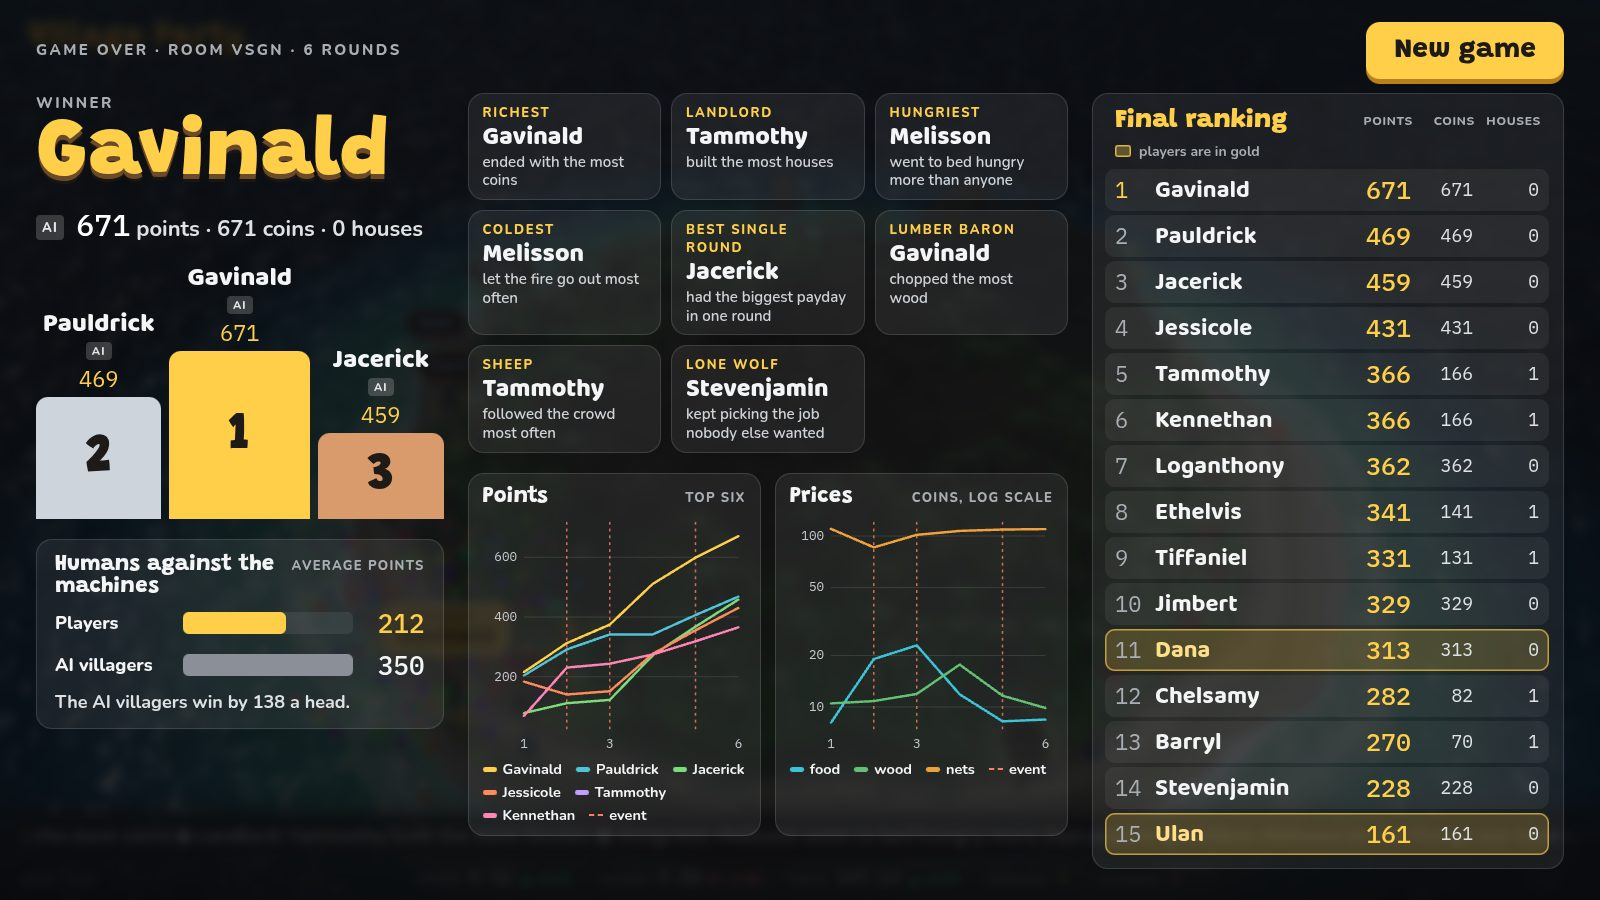
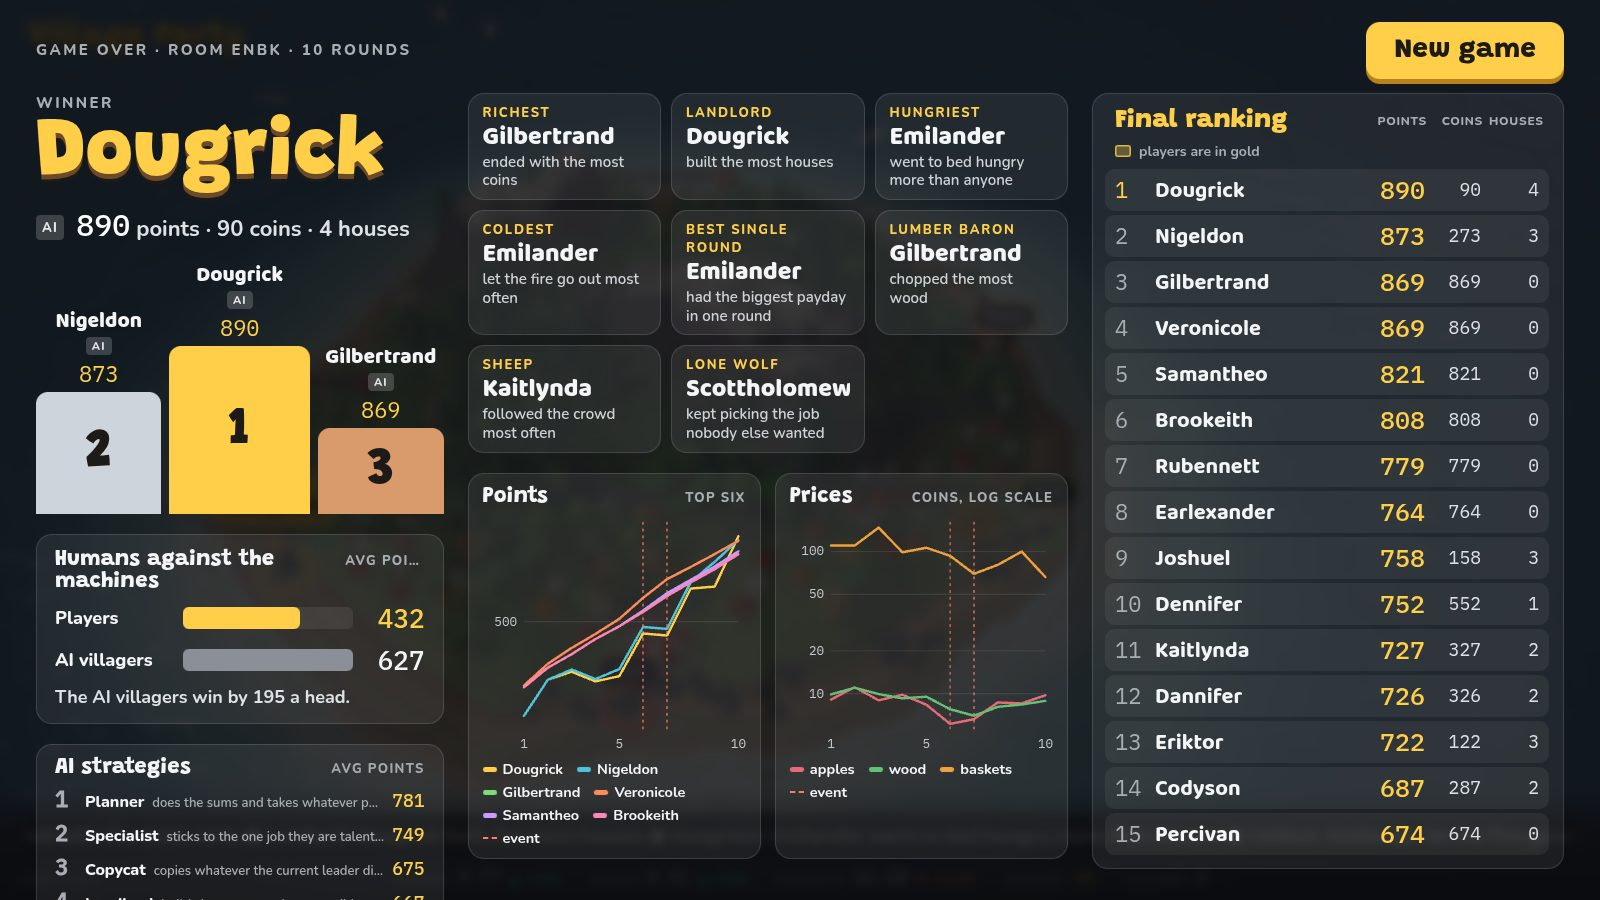
README + screenshots: orchard village (apples, baskets, crows), OpenAI brain toggle, economy lab, refreshed balance table

diff --git a/README.md b/README.md
@@ -18,16 +18,16 @@ villagers who all have their own strategies, personalities and opinions about yo
 ## Why it's fun
 
 Most "economy" games have fixed prices. In Village Party, **the price of everything is set by what
-everyone else just did.** If the whole room goes fishing, fish is worth nothing. If nobody chops
+everyone else just did.** If the whole room picks apples, apples are worth nothing. If nobody chops
 wood, the one person who did gets rich. Every round is a quick guess about what the other 20+
-people in the room (and the AI villagers) are about to do. Then a seagull heist wipes out your
-food anyway.
+people in the room (and the AI villagers) are about to do. Then a crow heist wipes out your
+apples anyway.
 
 - **No app to install.** Phones join by QR code or a 4-letter room code in the browser.
 - **Easy to learn, hard to play well.** Four buttons, a 12-second timer, and an estimate of what each job pays.
 - **The village is never empty.** AI villagers fill it up to 60, so you can play with 2 people or 40.
-- **Chaos on demand.** Storms, forest fires, cold snaps, a surprise wealth tax. The host can set one off whenever they like.
-- **A proper ending.** Podium, awards ("Sheep", "Lone wolf", "Hungriest"), price charts, and the big question: *did the humans beat the machines?*
+- **Chaos on demand.** Hailstorms, forest fires, cold snaps, a surprise wealth tax. The host can set one off whenever they like.
+- **A proper ending.** Podium, awards ("Sheep", "Lone wolf", "Hungriest"), price charts, which AI strategy did best, and the big question: *did the humans beat the machines?*
 
 <table>
 <tr>
@@ -39,7 +39,7 @@ food anyway.
 
 1. Scan the QR on the big screen
 2. Type your name and you're on the island
-3. Each round, pick **Fish**, **Chop wood**, **Craft a net** or **Build a house**
+3. Each round, pick **Pick apples**, **Chop wood**, **Weave a basket** or **Build a house**
 4. Each job shows its estimated pay at last round's prices
 5. Add a one-liner for your speech bubble on the big screen (optional)
 
@@ -53,10 +53,11 @@ food anyway.
 
 ```
 PICK    →  every villager (human or AI) picks one job before the clock runs out
-WORK    →  catch fish, chop wood, craft a net (+60% catch for 4 shifts) or put a shift into a house
+WORK    →  pick apples in the orchard, chop wood in the forest, weave a basket
+           (+60% apple harvest for 4 shifts) or put a shift into a house
 SELL    →  everything beyond what you keep goes to the mainland trader:
            the more of a good the village offers, the lower its price this round
-LIVE    →  everyone eats 2 food and burns 1 wood, buying what's short;
+LIVE    →  everyone eats 2 apples and burns 1 wood, buying what's short;
            go hungry or cold and you work at 60% strength next round
 EARN    →  a finished house is worth 200 points and pays 25 rent every round after
 SCORE   →  points = coins + houses. Richest villager at the end wins.
@@ -64,8 +65,8 @@ SCORE   →  points = coins + houses. Richest villager at the end wins.
 
 The round ends early once everyone has picked, so a room that decides quickly plays quickly.
 
-**Events** (chaos level from *Calm* to *Mayhem*): 🌊 Storm · 🐟 Fish frenzy · 🔥 Forest fire · ❄ Cold
-snap · 🦠 Blight · 🐦 Seagull heist · 💸 Surprise tax · 🌾 Golden season.
+**Events** (chaos level from *Calm* to *Mayhem*): 🌨 Hailstorm · 🍎 Bumper crop · 🔥 Forest fire · ❄ Cold
+snap · 🦠 Blight · 🐦⬛ Crow heist · 💸 Surprise tax · 🌾 Golden season.
 
 <img src="docs/screenshots/host-lobby.jpg" alt="Host screen lobby: QR code, room code, players joined, Start button" width="100%">
 
@@ -82,20 +83,20 @@ Every non-human villager gets a **strategy** and a **personality**, and they rea
 | `trend` | chases whatever the most villagers did last round |
 | `landlord` | builds houses as early as possible and lives off the rent |
 | `specialist` | sticks to the job they're talented at, whatever the price |
-| `netmaker` | crafts nets to sell, and fishes with one in between |
+| `netmaker` | weaves baskets to sell, and picks apples with one in between |
 | `copycat` | copies whatever the current leader did last round |
 | `gambler` | picks on a whim |
 
 Personalities (greedy, lazy, paranoid, dreamer, gossip, philosopher, dramatic, competitive) shape
-both their choices and what they say: *"They laughed at my nets. They are not laughing now. They
+both their choices and what they say: *"They laughed at my baskets. They are not laughing now. They
 are hungry."*
 
 **Two brains:**
 
 - **Scripted** (default, free, no network): fast heuristics plus a large hand-written line bank that reacts to events, hunger and other players by name.
-- **LLM** (`party/llm.mjs`, OpenAI): one structured-output request decides for 12 villagers at once, each in their own voice, and writes a short village-newspaper recap at the end. A round can never stall: anyone the model hasn't answered for in time falls back to the scripted brain, and spending is capped per game (`PARTY_AI_BUDGET_USD`, default $0.50). The server supports it (`brain: "openai"` on `/api/game` when `OPENAI_API_KEY` is set); the host-screen toggle is still marked *coming soon*.
+- **LLM** (`party/llm.mjs`, OpenAI): one structured-output request decides for 12 villagers at once, each in their own voice, and writes a short recap for the village gazette on the results screen. A round can never stall: anyone the model hasn't answered for in time falls back to the scripted brain, and spending is capped per game (`PARTY_AI_BUDGET_USD`, default $0.50). Pick it under **Villager brain** on the setup screen; it's enabled when the server has `OPENAI_API_KEY`.
 
-<img src="docs/screenshots/host-results.jpg" alt="Results: winner podium, awards, points and price charts, humans vs AI average" width="100%">
+<img src="docs/screenshots/host-results.jpg" alt="Results: winner podium, awards, points and price charts, humans vs AI average, best AI strategies" width="100%">
 
 ---
 
@@ -114,7 +115,7 @@ have everyone scan the QR. Phones land on `/play`.
 **Phones on a different network?** Run `ngrok http 8787` next to it: the server finds the tunnel
 by itself and puts its URL in the QR. Or set `PUBLIC_URL=https://your.host npm start`.
 
-**Optional LLM villagers:** put `OPENAI_API_KEY=...` in `.env` (see `.env.example`).
+**Optional LLM villagers:** put `OPENAI_API_KEY=...` in `.env` (see `.env.example`), then choose *OpenAI* as the villager brain.
 
 | Host setting | Range |
 |---|---|
@@ -122,6 +123,7 @@ by itself and puts its URL in the QR. Or set `PUBLIC_URL=https://your.host npm s
 | Rounds | 5 to 30 |
 | Seconds per round | 6 to 30 |
 | Chaos | Calm · Mild · Spicy · Mayhem |
+| Villager brain | Scripted · OpenAI |
 
 During a game, **Host menu** (bottom right) lets you trigger any event or end the game early.
 People who join after the start take over an AI villager ("Dana has taken over Barryl's body").
@@ -171,15 +173,25 @@ flowchart LR
 
   | Always plays… | Avg points (200 games) |
   |---|---|
-  | the best-paying job (greedy) | 639 |
-  | build houses | 593 |
-  | chop wood | 584 |
-  | contrarian (fish vs wood) | 521 |
-  | fish | 461 |
-  | random | 363 |
-  | nets | 314 |
+  | the best-paying job (greedy) | 623 |
+  | chop wood | 590 |
+  | build houses | 566 |
+  | contrarian (apples vs wood) | 517 |
+  | pick apples | 492 |
+  | random | 339 |
+  | weave baskets | 315 |
 
   No pure strategy wins. Playing the market wins.
+
+- **An economy lab for what comes next.** `party/lab/` is a separate, seeded and fully reproducible engine that plays thousands of 16-villager games per candidate rule set: a shared orchard and forest that can be over-harvested, planting your own apple trees, a village chest that pays a bounty for saplings, seasons and storage. Every economy gets the same tournament of strategies (careful, myopic, contrarian, builder, planter, orchardist, random…) and is scored on whether skill pays, how often the lead changes, whether a comeback is possible, and how much the village suffers. Results are committed in `party/lab/results/`.
+
+  ```bash
+  node party/lab/run.mjs              # every economy: one summary table
+  node party/lab/run.mjs REC          # the recommended preset in full
+  node party/lab/run.mjs sens E4d     # sensitivity to room size and player mix
+  ```
+
+  The current pick (`REC`: a thinning forest, private apple trees and a forest bounty, with a 2-shift house) keeps a 34% edge for careful play over casual play, while the half-time leader still loses 73% of games and hunger stays near zero (0.1% of villager-rounds).
 
 - **Tested:** `npm test` runs the game engine and the server API (`party/*.test.mjs`, Node's built-in test runner).
 
@@ -192,6 +204,7 @@ party/
   bots.mjs       scripted villagers: 8 strategies × 8 personalities, line bank
   llm.mjs        OpenAI villagers + end-of-game newspaper recap, budget-capped
   sim.mjs        balance harness (whole games on a fake clock)
+  lab/           economy lab: candidate rule sets, strategy tournaments, results
   demo.mjs       fake players for a live demo
   *.test.mjs     tests
 web/
